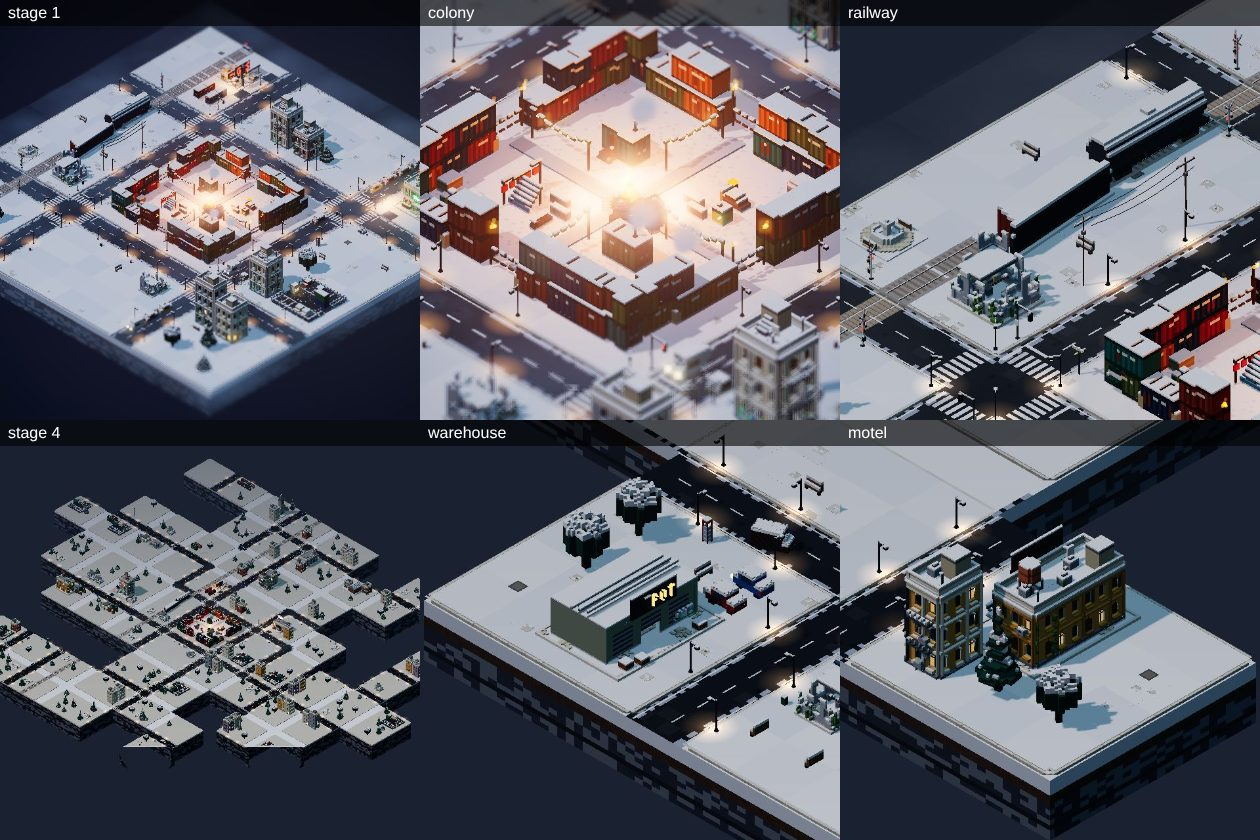
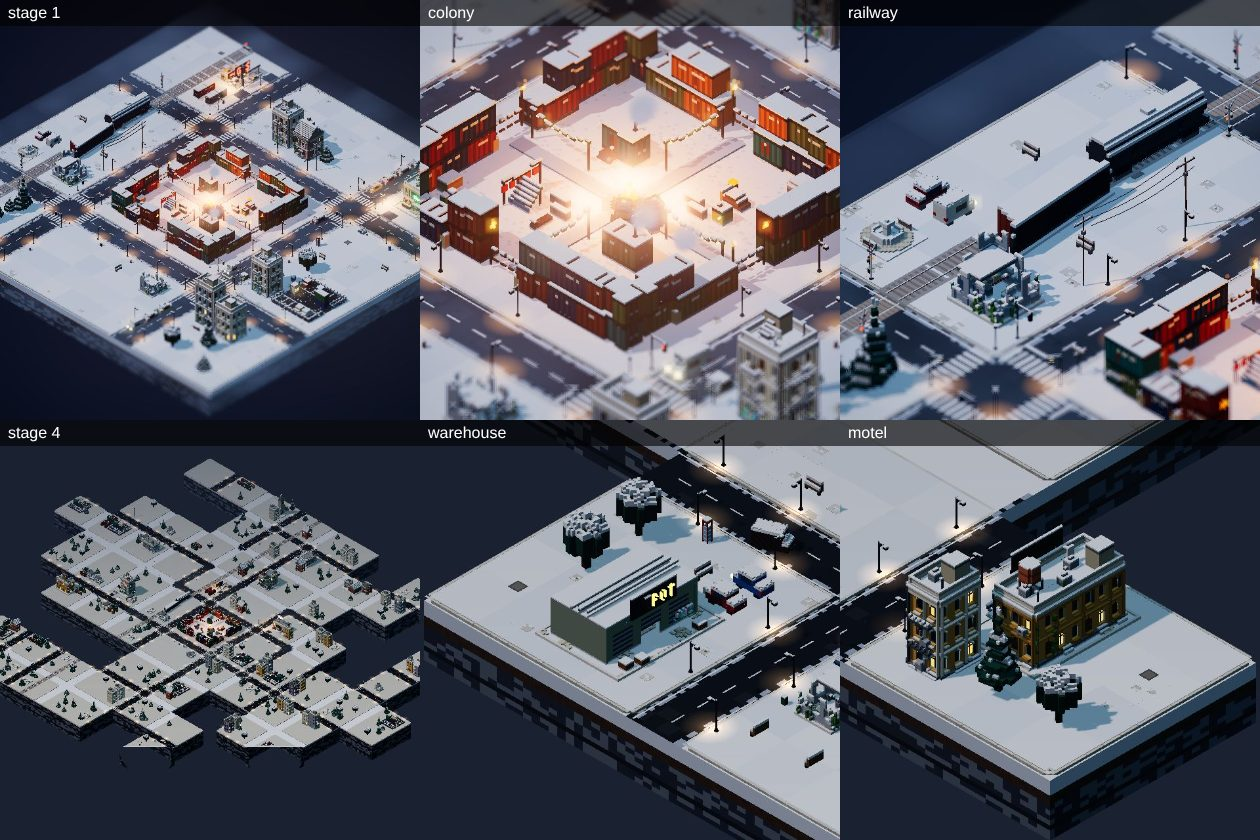
MAP finish-up: small building variety (doors, canopies, gables, balconies), snow banks at wall bases, dropped kerbs, denser decoration blocks, blinking amber lights; audit clean over 6 seeds x 4 stages
Claude-Session: https://claude.ai/code/session_01QukSoSL7rSXNw6vdcpJ2RK

diff --git a/src/render/board.js b/src/render/board.js
@@ -7,7 +7,7 @@ import { P } from './palette.js';
 import { LOCATION_BUILDERS_HD, colonyHD, treeModelHD, rockModelHD } from './buildings.js';
 import { buildTerrainHD, ROAD } from './terrain.js';
 import { carModel, lampModel, containerModel, clutterModel, CLUTTER_KINDS, crossingModel, wagonModel, bufferStopModel, FURNITURE, furnitureModel, trafficLightModel, streetSignModel, powerPoleModel, vehicleModel, checkpointModel, burntCarModel, tentModel, statueModel } from './props.js';
-import { markingQuads, lampSpots, railQuads, streetRuns } from './streets.js';
+import { markingQuads, lampSpots, railQuads, streetRuns, rampQuads } from './streets.js';
 import { blockSlab, GROUND } from './ground.js';
 import { mergeGeometries } from 'three/examples/jsm/utils/BufferGeometryUtils.js';
 import * as city from './city.js';
@@ -218,7 +218,7 @@ const DISTRICT_RECIPES = {
 const DISTRICT_SMALL = { downtown: [2, 4, 5, 7, 1], residential: [0, 3, 6, 1], industrial: [3, 6, 0] };
 
 /** MAP-3: a decoration block with nothing built on it (a square, a lawn, an empty lot): about a quarter of them. */
-export const openBlock = (b, bx, bz) => RECIPES[b.kind] && b.kind !== 'place' && hash3(bx, 71, bz) < 0.25;
+export const openBlock = (b, bx, bz) => RECIPES[b.kind] && b.kind !== 'place' && hash3(bx, 71, bz) < 0.18;
 
 /**
  * MAP-3 calmer blocks: the chunks of a block that get something, as [row, column, what]. Built things (the place or
@@ -241,7 +241,7 @@ export function blockPieces(b, bx, bz, plan, recipe = RECIPES[b.kind] ?? RECIPES
   let n;
   if (b.kind === 'place') n = built >= 4 ? (h(2) < 0.75 ? 1 : 2) : 2;
   else if (openBlock(b, bx, bz)) n = 0;
-  else n = built ? 1 : 2; // 1–2 pieces, counting the centrepiece
+  else n = 2; // two pieces besides any centrepiece (still inside the 3×2 window)
   n = Math.min(n, 6 - built, win.length);
   const used = new Set();
   for (let k = 0; k < n; k++) {
@@ -288,6 +288,7 @@ function pickBy(list, r) {
 /** A soft glowing ring texture for hover/selection halos. */
 const POOL_GEO = new THREE.PlaneGeometry(1, 1);
 const WIRE_MAT = new THREE.LineBasicMaterial({ color: 0x1c1f24 });
+const AMBER_MAT = new THREE.MeshBasicMaterial({ vertexColors: true, toneMapped: false, fog: false }); // blinking amber signals
 /** A soft warm spot of lamp light on the ground. */
 function poolTexture() {
   const c = document.createElement('canvas');
@@ -690,6 +691,15 @@ export function createBoard({ progressive = false } = {}) {
       const m = new THREE.Mesh(g, MARK_MAT); m.receiveShadow = true; m.name = 'markings';
       decor.add(m);
     }
+    // Dropped kerbs at the zebras (one mesh).
+    const slabTest = (x, z) => { const bx = gridOf(x); const bz = gridOf(z); return has(bx, bz) && Math.abs(x - blockPos(bx)) <= blockHalf(bx) - ROAD.half + 0.7 && Math.abs(z - blockPos(bz)) <= blockHalf(bz) - ROAD.half + 0.7; };
+    const rq = rampQuads(segs, slabTest, GROUND);
+    if (rq.index.length) {
+      const g = new THREE.BufferGeometry();
+      for (const a of ['position', 'normal', 'color']) g.setAttribute(a, new THREE.BufferAttribute(rq[a], 3));
+      g.setIndex(new THREE.BufferAttribute(rq.index, 1));
+      const m = new THREE.Mesh(g, MATERIALS.lit); m.receiveShadow = true; m.name = 'kerb-ramps'; decor.add(m);
+    }
     const posts = railCrossings(rail);
     const slabAt = (x, z) => { const bx = gridOf(x); const bz = gridOf(z); return has(bx, bz) && Math.abs(x - blockPos(bx)) <= blockHalf(bx) - ROAD.half - 0.2 && Math.abs(z - blockPos(bz)) <= blockHalf(bz) - ROAD.half - 0.2; };
     const spots = lampSpots(segs, (x, z) => ground(x, z) && slabAt(x, z)).filter((l) => !posts.some((p) => Math.hypot(p.x - l.x, p.z - l.z) < 2.5) && Math.abs((rail.axis === 'x' ? l.z : l.x) - rail.c) > RAIL_CLEAR + 0.6);
@@ -721,7 +731,7 @@ export function createBoard({ progressive = false } = {}) {
   // Everything here is merged into one lit mesh + one glow mesh for the whole city (2 draw calls).
   function buildFurniture(rail, segs, ground0, lamps) {
     debugItems.length = 0;
-    const lit = []; const glow = [];
+    const lit = []; const glow = []; const amber = [];
     // On a block slab (not over a back lane between blocks), off the track, and clear of doors and gates.
     const onSlab = (x, z) => { const bx = gridOf(x); const bz = gridOf(z); return has(bx, bz) && Math.abs(x - blockPos(bx)) <= blockHalf(bx) - ROAD.half - 0.2 && Math.abs(z - blockPos(bz)) <= blockHalf(bz) - ROAD.half - 0.2; };
     const doors = Object.values(layout).flatMap((L) => (L.plan ? [L.plan.c.clone().addScaledVector(L.plan.fwd, L.plan.edge + 1).addScaledVector(L.plan.side, L.plan.lat)] : L.gates ?? []));
@@ -733,7 +743,7 @@ export function createBoard({ progressive = false } = {}) {
       _e.set(tiltAxis === 'x' ? tilt : 0, yaw, tiltAxis === 'z' ? tilt : 0, 'YXZ');
       const mx = new THREE.Matrix4().compose(new THREE.Vector3(x, y, z), _q.setFromEuler(_e), new THREE.Vector3(1, 1, 1));
       if (g.lit) lit.push(g.lit.clone().applyMatrix4(mx));
-      if (g.glow) glow.push(g.glow.clone().applyMatrix4(mx));
+      if (g.glow) (key === 'tlight-amber' ? amber : glow).push(g.glow.clone().applyMatrix4(mx)); // amber lights blink on their own
       // MAP audit: remember what went into the merged mesh and where (world box).
       const box = (g.lit ?? g.glow).boundingBox.clone().applyMatrix4(mx);
       if (g.glow && g.lit) box.union(g.glow.boundingBox.clone().applyMatrix4(mx));
@@ -911,7 +921,7 @@ export function createBoard({ progressive = false } = {}) {
       const mesh = new THREE.Mesh(geo, mat); mesh.name = name; mesh.receiveShadow = true; mesh.castShadow = mat === MATERIALS.lit;
       decor.add(mesh);
     };
-    merge(lit, MATERIALS.lit, 'furniture'); merge(glow, MATERIALS.glow, 'furniture-glow');
+    merge(lit, MATERIALS.lit, 'furniture'); merge(glow, MATERIALS.glow, 'furniture-glow'); merge(amber, AMBER_MAT, 'amber-lights');
   }
 
   // ---------------------------------------------------------------- MAP-3 E: the railway
@@ -1261,6 +1271,7 @@ export function createBoard({ progressive = false } = {}) {
       for (const c of batches) if (c.pop) stepPop(c, dt);
       for (let i = slotPops.length - 1; i >= 0; i--) { stepPop(slotPops[i], dt); if (!slotPops[i].pop) slotPops.splice(i, 1); }
       stepPuffs(dt);
+      AMBER_MAT.visible = Math.floor(t * 1.6) % 2 === 0; // amber signals blink
       if (pools && flickers.length) {
         for (const [n, i] of flickers.entries()) { const f = Math.sin(t * 9 + n * 2.3) > 0.6 || Math.sin(t * 23 + n) > 0.93 ? 0.15 : 1; _c.setScalar(f); pools.setColorAt(i, _c); }
         pools.instanceColor.needsUpdate = true;

diff --git a/src/render/city.js b/src/render/city.js
@@ -90,6 +90,12 @@ export function block(m, o) {
     m.set(x + ox, 1, z + oz, C.greyDark);
     if (u === 0 || u === len - 1 || (u % 12 === 6 && u < len - 3)) for (let y = 2; y < H; y++) if (!m.get(x + ox, y, z + oz)) m.set(x + ox, y, z + oz, trim);
     m.set(x + ox, H - 1, z + oz, trim); m.set(x + ox, H, z + oz, C.creamDark);
+    // Snow drifted against the wall base: a low, uneven bank (never across a doorway or shopfront at the front).
+    const n = hash3(Math.floor(u / 4), 17, seed);
+    if (n < 0.55 && !(side === 'front' && o.shop)) {
+      m.set(x + 2 * ox, 1, z + 2 * oz, P.snow);
+      if (n < 0.3) m.set(x + ox, 2, z + oz, P.snow);
+    }
   });
   if (shop) shopfront(m, x0, z0, w, d, seed);
   if (balconies) {
@@ -834,7 +840,7 @@ export function railYard() {
 // ---------------------------------------------------------------- MAP-1b: small buildings that fill a block's free chunks
 
 export const SMALL_VARIANTS = 8;
-export const SMALL_SCALE = 0.9; // instance scale: a small building fills its chunk with a little room around it
+export const SMALL_SCALE = 0.86; // instance scale: a small building fills its chunk with a little room around it
 const SMALL_WALLS = [C.sage, C.cream, C.grey, C.brick, C.ochre, 0x8fa3b8, 0xb9a48a, 0x9b8b9e];
 
 /** A small, closed-up building (not a place you can enter): 1–4 floors, sized to one chunk. */
@@ -842,8 +848,21 @@ export function smallBuilding(v = 0) {
   const m = new VoxelModel();
   const w = 16 + (v % 3) * 2; const d = 14 + (v % 2) * 3;
   const floors = 2 + (v % 3); // MAP-3: at least two floors (a one-floor shop read as an empty box)
-  block(m, { x0: -Math.floor(w / 2), z0: -Math.floor(d / 2), w, d, floors, wall: SMALL_WALLS[v % SMALL_WALLS.length], seed: 50 + v, shop: floors <= 3 && v % 2 === 0 });
-  if (v % 4 === 1) graffiti(m, -Math.floor(w / 2) + 2, 2, Math.ceil(d / 2), v);
+  const shop = floors <= 3 && v % 2 === 0;
+  const x0 = -Math.floor(w / 2); const z0 = -Math.floor(d / 2);
+  const H = block(m, { x0, z0, w, d, floors, wall: SMALL_WALLS[v % SMALL_WALLS.length], seed: 50 + v, shop, balconies: v % 3 === 1 });
+  if (v % 4 === 1) graffiti(m, x0 + 2, 2, z0 + d, v);
+  // MAP-3 variety: houses get a front door with a little canopy and a stoop; some a pitched roof with a chimney.
+  if (!shop) {
+    const dx = x0 + Math.floor(w / 2) - 1; const fz = z0 + d - 1;
+    m.clearBox(dx, 1, fz, 3, 6, 1); m.box(dx, 1, fz - 1, 3, 6, 1, v % 2 ? 0x6b4a30 : 0x2f4f6f); m.set(dx + 2, 3, fz, 0xd8b03a);
+    m.box(dx - 1, 7, fz + 1, 5, 1, 2, C.roofDark); m.box(dx - 1, 1, fz + 1, 5, 1, 2, C.greyDark);
+  }
+  if (v % 4 === 3) {
+    m.clearBox(x0, H + 1, z0, w, 3, d); // no parapet: a gable roof instead
+    for (let k = 0; k <= Math.floor(d / 2); k++) m.box(x0 - 1, H + 1 + k, z0 - 1 + k, w + 2, 1, d + 2 - 2 * k, k % 2 ? C.roofDark : C.roof);
+    m.box(x0 + 3, H + 2, z0 + 3, 2, Math.floor(d / 2) + 2, 2, C.brick);
+  }
   return dust(m);
 }
 

diff --git a/src/render/streets.js b/src/render/streets.js
@@ -194,3 +194,37 @@ export function railQuads(rail, pieces) {
   }
   return { position: new Float32Array(pos), normal: new Float32Array(nrm), color: new Float32Array(col), index };
 }
+
+/**
+ * MAP-3: dropped kerbs: at each zebra crossing a sloped ramp from the road up to the block slab on both sides.
+ * onSlab(x, z) says whether a block slab is there; top = slab height. Returns quads like markingQuads.
+ */
+export function rampQuads(segments, onSlab, top) {
+  const { nodes } = streetRuns(segments);
+  const pos = []; const nrm = []; const col = [];
+  const C1 = [0.72, 0.73, 0.75]; const C2 = [0.6, 0.61, 0.63];
+  for (const n of nodes) {
+    if (n.kind !== 'junction') continue;
+    for (const d of n.dirs) {
+      const axis = d[1]; const s = d[0] === '+' ? 1 : -1;
+      for (const side of [-1, 1]) {
+        const P = (along, lat, y) => (axis === 'x' ? [n.x + s * along, y, n.z + side * lat] : [n.x + side * lat, y, n.z + s * along]);
+        const mid = P((ROAD.kerb + ROAD.walk) / 2, ROAD.half + 0.6, 0);
+        if (!onSlab(mid[0], mid[2])) continue;
+        const a0 = ROAD.kerb + 0.15; const a1 = ROAD.walk - 0.15;
+        const q = [P(a0, ROAD.half - 0.5, 0.025), P(a1, ROAD.half - 0.5, 0.025), P(a1, ROAD.half + 0.2, top + 0.012), P(a0, ROAD.half + 0.2, top + 0.012)];
+        // Normal of the slope (pointing up and away from the slab), then make the winding face it.
+        const out = axis === 'x' ? [0, 0, -side] : [-side, 0, 0];
+        const len = Math.hypot(top, 0.7); const nm = [out[0] * top / len, 0.7 / len, out[2] * top / len];
+        const e1 = q[1].map((v, i) => v - q[0][i]); const e2 = q[2].map((v, i) => v - q[0][i]);
+        const cr = [e1[1] * e2[2] - e1[2] * e2[1], e1[2] * e2[0] - e1[0] * e2[2], e1[0] * e2[1] - e1[1] * e2[0]];
+        const pts = cr[1] > 0 ? q : [q[0], q[3], q[2], q[1]];
+        for (const p of pts) { pos.push(...p); nrm.push(...nm); col.push(...((Math.round(p[0] + p[2]) & 1) ? C1 : C2)); }
+      }
+    }
+  }
+  const nq = pos.length / 12;
+  const index = new Uint32Array(nq * 6);
+  for (let q = 0; q < nq; q++) index.set([q * 4, q * 4 + 1, q * 4 + 2, q * 4, q * 4 + 2, q * 4 + 3], q * 6);
+  return { position: new Float32Array(pos), normal: new Float32Array(nrm), color: new Float32Array(col), index };
+}

diff --git a/docs/rework-plan.md b/docs/rework-plan.md
@@ -456,3 +456,12 @@ hand from the Actions tab). One-time setup: Settings → Pages → Source: GitHu
 - Fixed: lamps, furniture, clutter and power poles stood where a sidewalk crosses a back lane between blocks (floating over the lane) — street things now need a block slab under them; cars on the colony gate roads were buried in the slab (gate roads at road level, no cars there); random street cars clashed with the evacuation route, parked place vehicles and the track (removed: vehicles come from the route, places and stories); evacuation cars stood across the lane (now along it); buses and trailers under lamp arms; parked ambulances / police cars on top of each other or under a lamp (they shift along the kerb or are left out); police barriers in front of the door (moved aside); cones and crates on the track or by a crossing post; a 2×2 parking lot in the rail row (left out when it can't fit); container stacks and car pairs overlapping (side by side across their length); small buildings touching their neighbours (scale 0.9); street props seeded by list position (now by the street, so a city built at once equals one grown step by step); a fallen pole could land on the track; stories on top of furniture or under lamps.
 - Contact sheets: `node scripts/e2e/audit-sheets.cjs [seeds]` → docs/ref/audit/seed-N.jpg (stage 1 and 4 overviews, colony, railway, two places). The backdrop shadow plane is hidden (its square corner showed under big cities).
 - Next to-do (odd / polish, not fixed): a small pale wedge still shows at one rim corner in the whole-city view of big cities; repeated places ("police-2") are drawn much smaller (one chunk row, scale ~0.5); place signs often face away from the camera; some blocks are still very bare; a stage-1 rail line crosses only a few blocks. Not checked: loading on the published artifact itself (needs a signed-in browser) — load marks there should show packed > 0.
+
+### MAP finish-up (done)
+- Group 2 places redrawn: police (window bars, flag, radio mast, sandbags, holding yard with razor wire, notices), hospital (rooftop helipad, ER canopy, triage tents, oxygen tanks, generator, ramp), school (clock tower, flag, steps, painted court, slide and swings), library (pediment, wide steps, banners, book drop). The built-in cruiser / ambulance / barriers left the models (the board parks vehicles at the kerb). Repeated places are full size (no more one-row copies).
+- Small buildings: front doors with canopies and stoops, gable roofs with a chimney on some, balconies on others; scale 0.86 so neighbours never touch. Every block building has a low snow bank along its wall base.
+- Dropped kerbs: a ramp from the road up to the slab at both ends of every zebra (one mesh).
+- Decoration blocks: two pieces besides a centrepiece, fewer empty blocks (18%).
+- Amber traffic lights blink (own small mesh).
+- Audit: 6 seeds × 4 stages, 0 findings; contact sheets regenerated.
+- Left as known limits: place signs face their street, so some face away from the camera (pins carry the names); a small pale wedge can show at one rim corner in whole-city views; draw calls ~120–260 (target 60 needs a renderer rework: terrain merged per growth, models instanced across blocks); the stage-1 railway only crosses a few blocks.
